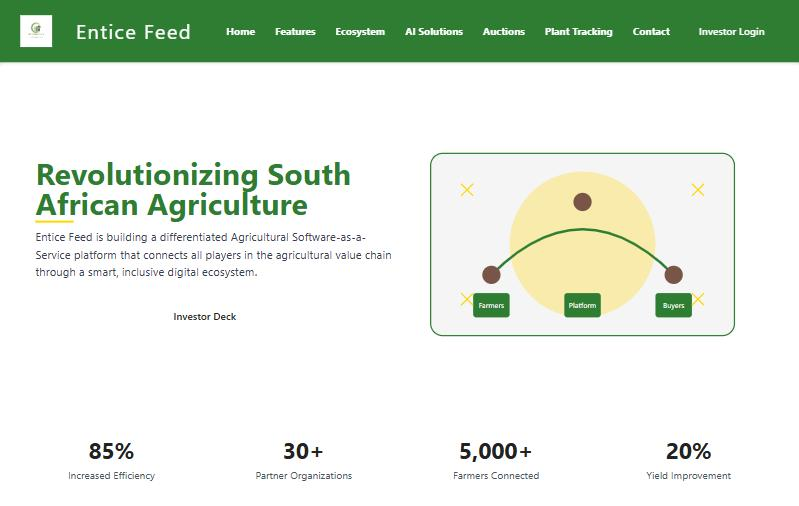
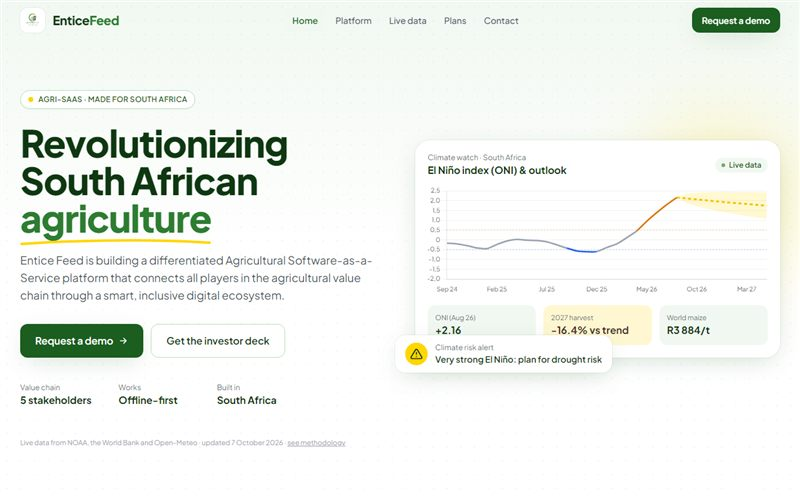
Update SAFE and Entice Feed screenshots
Retaken from the live sites, so the home page and case studies show
the current multi-page SAFE and the Entice Feed El Nino watch. The
Entice image tag now matches the new 800x500 size and has a more
descriptive alt text.

diff --git a/index.html b/index.html
@@ -177,7 +177,7 @@
       <h3 class="subhead">Freelance work</h3>
       <div class="project-grid two">
         <article class="card">
-          <img class="card-img" src="img/projects/entice-feed.jpg" alt="Entice Feed agricultural SaaS landing page" loading="lazy" width="799" height="506">
+          <img class="card-img" src="img/projects/entice-feed.jpg" alt="Entice Feed homepage with the live El Niño watch" loading="lazy" width="800" height="500">
           <div class="card-body">
             <h3>Entice Feed</h3>
             <p>Five-page site for a South African agri-SaaS start-up. A weekly data pipeline pulls NOAA, World Bank and Open-Meteo data and fits El Niño, harvest and maize-price forecasts.</p>
